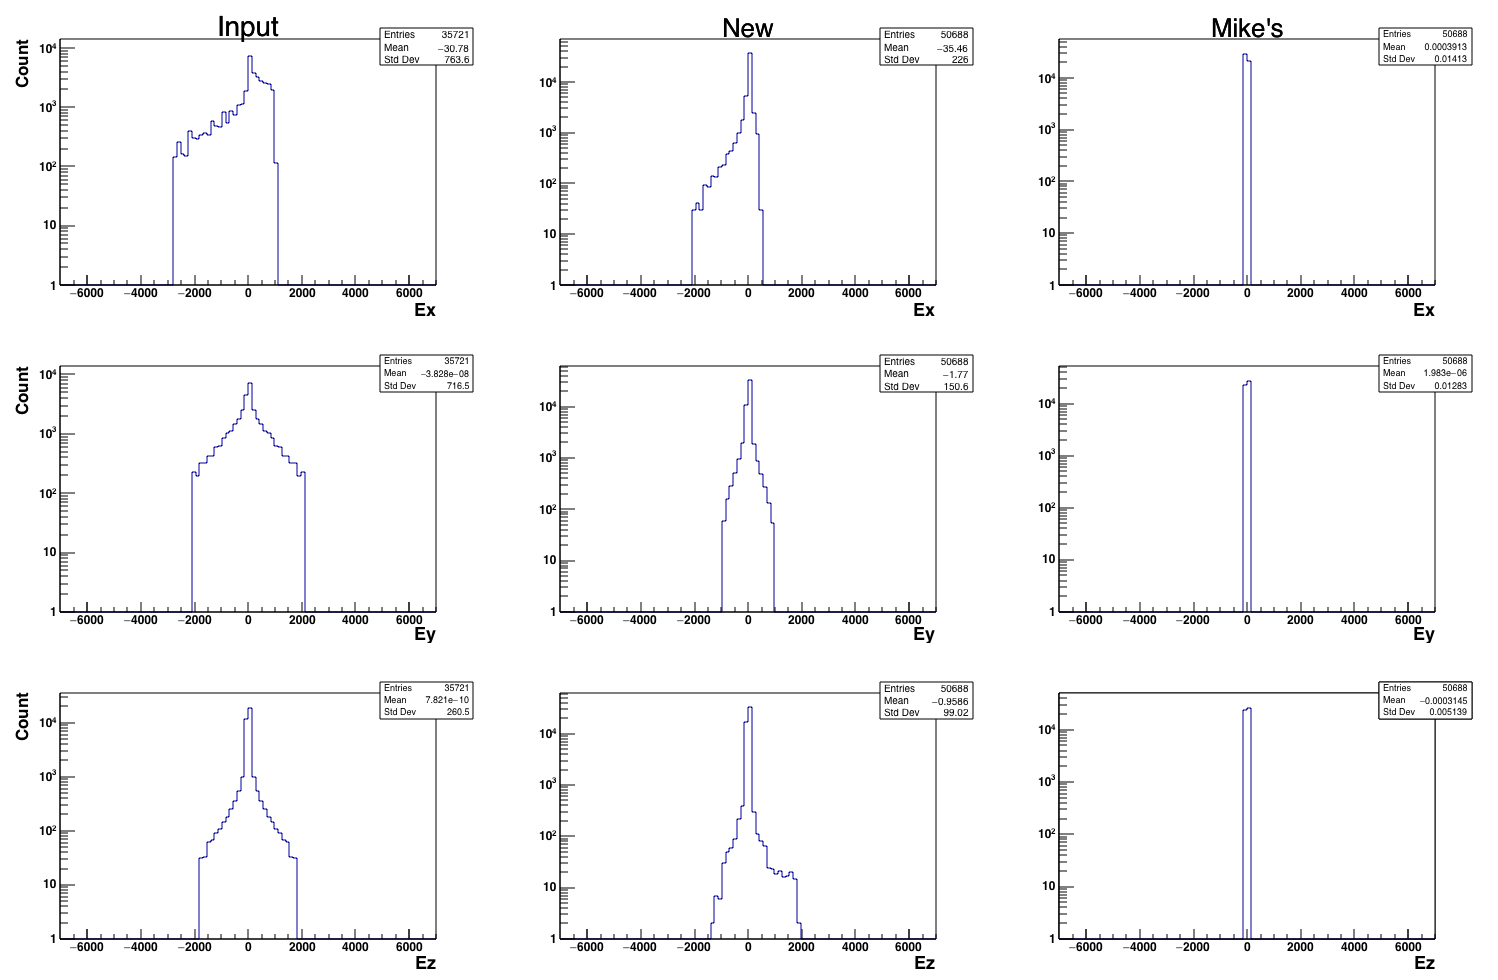
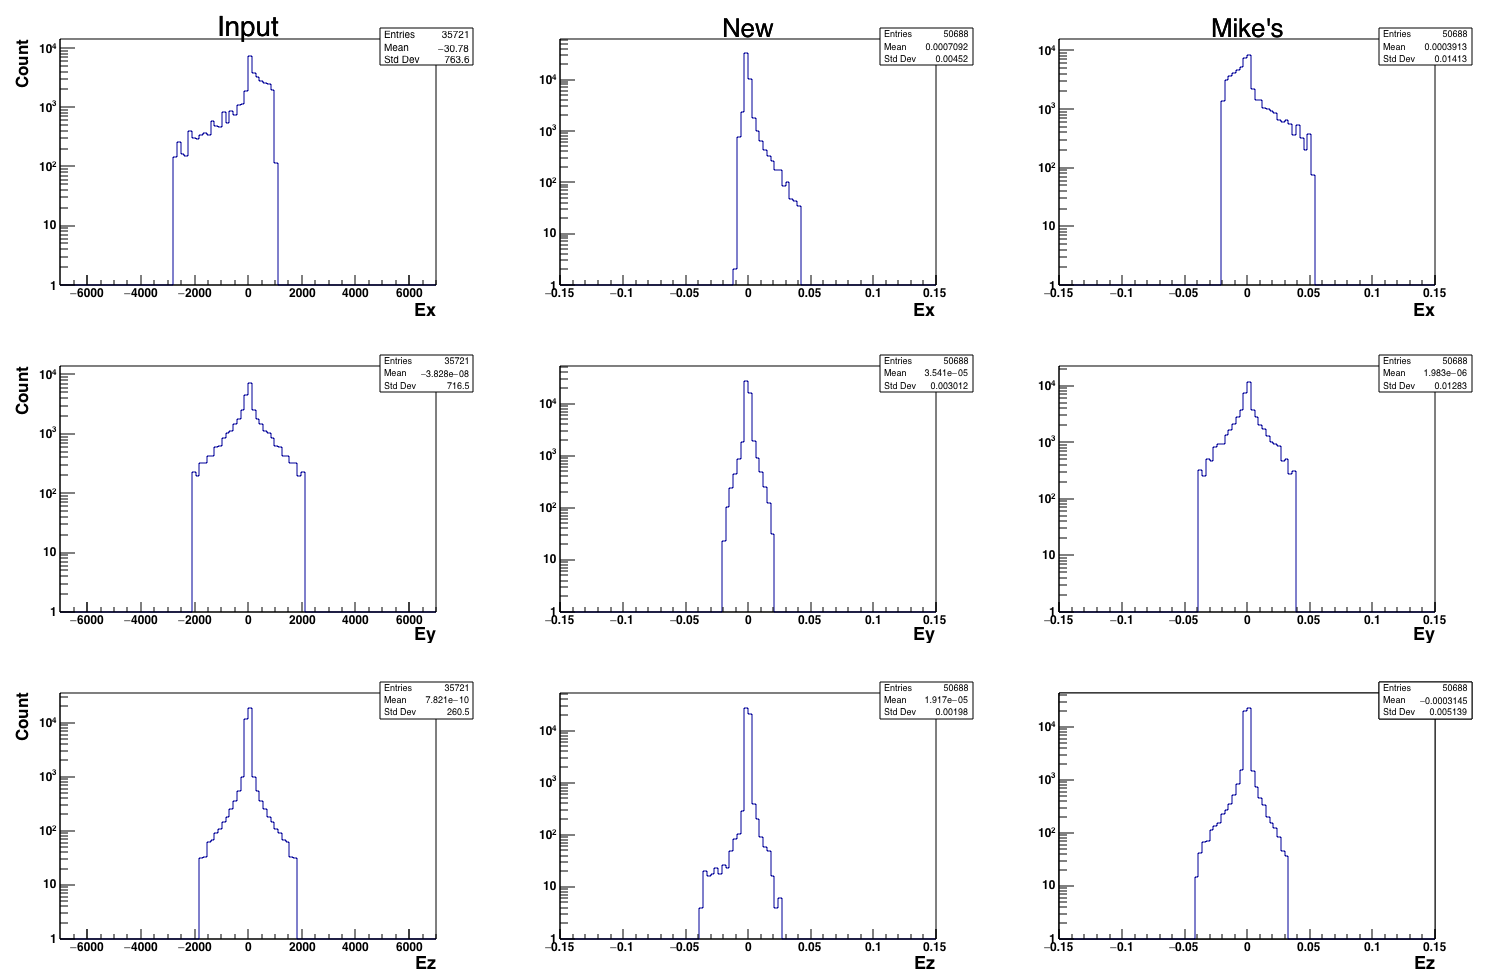
E Field unit miss match fixed

diff --git a/WorkArea/CompareOffsets/CompareOffsets.C b/WorkArea/CompareOffsets/CompareOffsets.C
@@ -31,7 +31,8 @@ int main()
     int intermediateEFieldN[3] = {6, 5, 4};
 
     SpaceCharge *myExperiment = new SpaceCharge("../../OutputFiles/SCEoffsets_ProtoDUNE_E500.root",
-						initialSpatialN, intermediateSpatialN, initialEFieldN, intermediateEFieldN, "ProtoDUNE");
+						initialSpatialN, intermediateSpatialN, initialEFieldN, intermediateEFieldN,
+						500.0, "ProtoDUNE");
 
     SpaceChargeProtoDUNE *oldExperiment = new SpaceChargeProtoDUNE("../../OldFiles/ProtoDUNE/Mike_SCEoffsets_ProtoDUNE_E500.root");
     TFile *fileInput = new TFile("../../InputFiles/dispOutput_protoDUNE_E500.root");
@@ -45,7 +46,8 @@ int main()
 
     /**
        SpaceCharge *myExperiment = new SpaceCharge("../../OutputFiles/SCEoffsets_MicroBooNE_E500.root",
-       initialSpatialN, intermediateSpatialN, initialEFieldN, intermediateEFieldN, "MicroBooNE");
+       initialSpatialN, intermediateSpatialN, initialEFieldN, intermediateEFieldN,
+       500.0, "MicroBooNE");
        SpaceChargeMicroBooNE *oldExperiment = new SpaceChargeMicroBooNE("../../OldFiles/MicroBooNE/Mike_SCEoffsets_MicroBooNE_E500.root");
        TFile *fileInput = new TFile("../../InputFiles/dispOutput_MicroBooNE_E500.root");
        TFile *histoFile = new TFile("../../OutputFiles/OffsetsComparision_MicroBooNE.root", "RECREATE");
@@ -61,15 +63,15 @@ int main()
     const double minD = -0.1;
     const double maxD = 0.1;
     const int eBins = 100;
-    const double minE = -7000;
-    const double maxE = 7000;
+    const double minE = -0.15;
+    const double maxE = 0.15;
 
     TH1D *iDx = new TH1D("iDx", "", dBins, minD, maxD);
     TH1D *iDy = new TH1D("iDy", "", dBins, minD, maxD);
     TH1D *iDz = new TH1D("iDz", "", dBins, minD, maxD);
-    TH1D *iEx = new TH1D("iEx", "", eBins, minE, maxE);
-    TH1D *iEy = new TH1D("iEy", "", eBins, minE, maxE);
-    TH1D *iEz = new TH1D("iEz", "", eBins, minE, maxE);
+    TH1D *iEx = new TH1D("iEx", "", eBins, -7000.0, 7000.0);
+    TH1D *iEy = new TH1D("iEy", "", eBins, -7000.0, 7000.0);
+    TH1D *iEz = new TH1D("iEz", "", eBins, -7000.0, 7000.0);
 
     TH1D *mDx = new TH1D("mDx", "", dBins, minD, maxD);
     TH1D *mDy = new TH1D("mDy", "", dBins, minD, maxD);

diff --git a/SourceCode/SpaceCharge.C b/SourceCode/SpaceCharge.C
@@ -16,8 +16,8 @@
 
 SpaceCharge::SpaceCharge(std::string filename,
                          const int initialSpatialPolN[3], const int intermediateSpatialPolN[3], const int initialEFieldPolN[3], const int intermediateEFieldPolN[3],
-                         const std::string eName)
-    : ExperimentName(eName)
+                         const double drift, const std::string eName)
+    : DriftField(drift), ExperimentName(eName)
 {
     for(int i = 0; i < 3; i++)
         {
@@ -256,9 +256,11 @@ std::vector<double> SpaceCharge::GetEfieldOffsets(double xVal, double yVal, doub
             theEfieldOffsets = GetEfieldOffsetsParametric(xVal, yVal, zVal);
         }
 
-    //theEfieldOffsets.at(0) = -1.0 * theEfieldOffsets.at(0);
-    //theEfieldOffsets.at(1) = -1.0 * theEfieldOffsets.at(1);
-    //theEfieldOffsets.at(2) = -1.0 * theEfieldOffsets.at(2);
+    // GetOneEfieldOffsetParametric returns V/m
+    // The E-field offsets are returned as -dEx/|E_nominal|, -dEy/|E_nominal|, and -dEz/|E_nominal| where |E_nominal| is DriftField
+    theEfieldOffsets.at(0) = -1.0 * theEfieldOffsets.at(0) / (100.0 * DriftField);
+    theEfieldOffsets.at(1) = -1.0 * theEfieldOffsets.at(1) / (100.0 * DriftField);
+    theEfieldOffsets.at(2) = -1.0 * theEfieldOffsets.at(2) / (100.0 * DriftField);
 
     return theEfieldOffsets;
 }

diff --git a/SourceCode/SpaceCharge.h b/SourceCode/SpaceCharge.h
@@ -11,7 +11,7 @@ class SpaceCharge
 
     SpaceCharge(std::string filename,
                 const int initialSpatialPolN[3], const int intermediateSpatialPolN[3], const int initialEFieldPolN[3], const int intermediateEFieldPolN[3],
-                const std::string eName);
+                const double drift, const std::string eName);
     ~SpaceCharge();
 
     bool Configure(std::string filename);
@@ -21,6 +21,7 @@ class SpaceCharge
  protected:
     int initialSpatialFitPolN[3], intermediateSpatialFitPolN[3];
     int initialEFieldFitPolN[3], intermediateEFieldFitPolN[3];
+    double DriftField; // 500 V/cm, 273 V/cm
     std::string ExperimentName;//MicroBooNE, ProtoDUNE, SBND
 
     std::vector<double> GetPosOffsetsParametric(double xVal, double yVal, double zVal) const;

diff --git a/SourceCode/MapSCE.C b/SourceCode/MapSCE.C
@@ -63,7 +63,7 @@ void MapSCE::PerformTransformation(string FieldToTransform, string DimensionToTr
     cout << "----------------------------------------------------------------------" << endl;
     cout << "Performing transformation" << endl << endl;
     cout << "Input file is: " << InputFile << endl;
-    cout << "Drift field is: " << DriftField << "V/m" << endl;
+    cout << "Drift field is: " << DriftField << "V/cm" << endl;
     cout << "Output file directory is: " << OutputDirectory << endl;
     cout << "Field to transform is: " << FieldToTransform << endl;
     cout << "Dimension to transform is: " << DimensionToTransform << endl;
